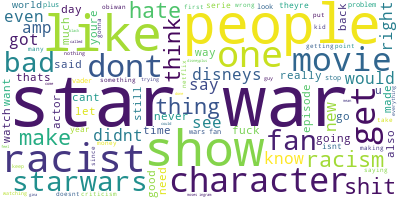
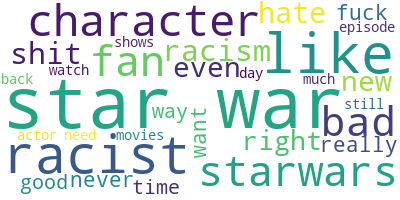
Sentiment analysis changes

diff --git a/Projekt2/DreamworksSentiment.py b/Projekt2/DreamworksSentiment.py
@@ -13,7 +13,9 @@ dreamworks_content_array = pd.DataFrame(tweets, columns=['content']).to_numpy().
 sid = SentimentIntensityAnalyzer()
 lem = WordNetLemmatizer()
 stop_words = stopwords.words("english")
-stop_words.extend(['dreamworks', 'im'])
+stop_words.extend(['dreamworks', 'im', 'show', 'people', 'dont', 'didnt', 'movie', 'disney', 'disneys', 'one', 'lol',
+                   'know', 'cant', 'get', 'got', 'make', 'made', 'think', 'going', 'also', 'would', 'film', 'guy', '2',
+                   'thing', 'go', 'see', 'say', 'said', 'thats', 'youre', 'theyre', 'us', 'animation', 'movies'])
 
 neg = []
 pos = []
@@ -56,7 +58,7 @@ plt.barh(words, frequency)
 plt.savefig("charts/DreamworksNegBarPlot")
 plt.show()
 
-wordcloud = WordCloud(stopwords=stop_words, max_words=100, background_color="white").generate(neg)
+wordcloud = WordCloud(stopwords=stop_words, max_words=30, background_color="white").generate(neg)
 
 plt.imshow(wordcloud, interpolation='bilinear')
 plt.axis("off")
@@ -89,7 +91,7 @@ plt.barh(words, frequency)
 plt.savefig("charts/DreamworksPosBarPlot")
 plt.show()
 
-wordcloud = WordCloud(stopwords=stop_words, max_words=100, background_color="white").generate(pos)
+wordcloud = WordCloud(stopwords=stop_words, max_words=30, background_color="white").generate(pos)
 
 plt.imshow(wordcloud, interpolation='bilinear')
 plt.axis("off")
@@ -123,7 +125,7 @@ plt.barh(words, frequency)
 plt.savefig("charts/DreamworksNeuBarPlot")
 plt.show()
 
-wordcloud = WordCloud(stopwords=stop_words, max_words=100, background_color="white").generate(neu)
+wordcloud = WordCloud(stopwords=stop_words, max_words=30, background_color="white").generate(neu)
 
 plt.imshow(wordcloud, interpolation='bilinear')
 plt.axis("off")

diff --git a/Projekt2/PixarSentiment.py b/Projekt2/PixarSentiment.py
@@ -13,7 +13,9 @@ pixar_content_array = pd.DataFrame(tweets, columns=['content']).to_numpy().flatt
 sid = SentimentIntensityAnalyzer()
 lem = WordNetLemmatizer()
 stop_words = stopwords.words("english")
-stop_words.extend(['pixar', 'im'])
+stop_words.extend(['pixar', 'im', 'show', 'people', 'dont', 'didnt', 'movie', 'disney', 'pixars', 'one', 'disneypixar',
+                   'know', 'cant', 'get', 'got', 'make', 'made', 'think', 'going', 'also', 'would', 'film', 'guy', '2',
+                   'thing', 'go', 'see', 'say', 'said', 'thats', 'movies', 'us', 'animation', 'look', 'amp'])
 
 neg = []
 pos = []
@@ -56,7 +58,7 @@ plt.barh(words, frequency)
 plt.savefig("charts/pixarNegBarPlot")
 plt.show()
 
-wordcloud = WordCloud(stopwords=stop_words, max_words=100, background_color="white").generate(neg)
+wordcloud = WordCloud(stopwords=stop_words, max_words=30, background_color="white").generate(neg)
 
 plt.imshow(wordcloud, interpolation='bilinear')
 plt.axis("off")
@@ -89,7 +91,7 @@ plt.barh(words, frequency)
 plt.savefig("charts/PixarPosBarPlot")
 plt.show()
 
-wordcloud = WordCloud(stopwords=stop_words, max_words=100, background_color="white").generate(pos)
+wordcloud = WordCloud(stopwords=stop_words, max_words=30, background_color="white").generate(pos)
 
 plt.imshow(wordcloud, interpolation='bilinear')
 plt.axis("off")
@@ -123,7 +125,7 @@ plt.barh(words, frequency)
 plt.savefig("charts/PixarNeuBarPlot")
 plt.show()
 
-wordcloud = WordCloud(stopwords=stop_words, max_words=100, background_color="white").generate(neu)
+wordcloud = WordCloud(stopwords=stop_words, max_words=30, background_color="white").generate(neu)
 
 plt.imshow(wordcloud, interpolation='bilinear')
 plt.axis("off")

diff --git a/Projekt2/DisneySentiment.py b/Projekt2/DisneySentiment.py
@@ -13,7 +13,9 @@ disney_content_array = pd.DataFrame(tweets, columns=['content']).to_numpy().flat
 sid = SentimentIntensityAnalyzer()
 lem = WordNetLemmatizer()
 stop_words = stopwords.words("english")
-stop_words.extend(['disney', 'im'])
+stop_words.extend(['disney', 'im', 'show', 'people', 'dont', 'didnt', 'movie', 'disneys', 'one', 'lol',
+                   'know', 'cant', 'get', 'got', 'make', 'made', 'think', 'going', 'also', 'would',
+                   'thing', 'go', 'see', 'say', 'said', 'u', 'amp', 'thats', 'youre', 'theyre', 'us'])
 
 neg = []
 pos = []
@@ -56,7 +58,7 @@ plt.barh(words, frequency)
 plt.savefig("charts/DisneyNegBarPlot")
 plt.show()
 
-wordcloud = WordCloud(stopwords=stop_words, max_words=100, background_color="white").generate(neg)
+wordcloud = WordCloud(stopwords=stop_words, max_words=30, background_color="white").generate(neg)
 
 plt.imshow(wordcloud, interpolation='bilinear')
 plt.axis("off")
@@ -89,7 +91,7 @@ plt.barh(words, frequency)
 plt.savefig("charts/DisneyPosBarPlot")
 plt.show()
 
-wordcloud = WordCloud(stopwords=stop_words, max_words=100, background_color="white").generate(pos)
+wordcloud = WordCloud(stopwords=stop_words, max_words=30, background_color="white").generate(pos)
 
 plt.imshow(wordcloud, interpolation='bilinear')
 plt.axis("off")
@@ -123,7 +125,7 @@ plt.barh(words, frequency)
 plt.savefig("charts/DisneyNeuBarPlot")
 plt.show()
 
-wordcloud = WordCloud(stopwords=stop_words, max_words=100, background_color="white").generate(neu)
+wordcloud = WordCloud(stopwords=stop_words, max_words=30, background_color="white").generate(neu)
 
 plt.imshow(wordcloud, interpolation='bilinear')
 plt.axis("off")
